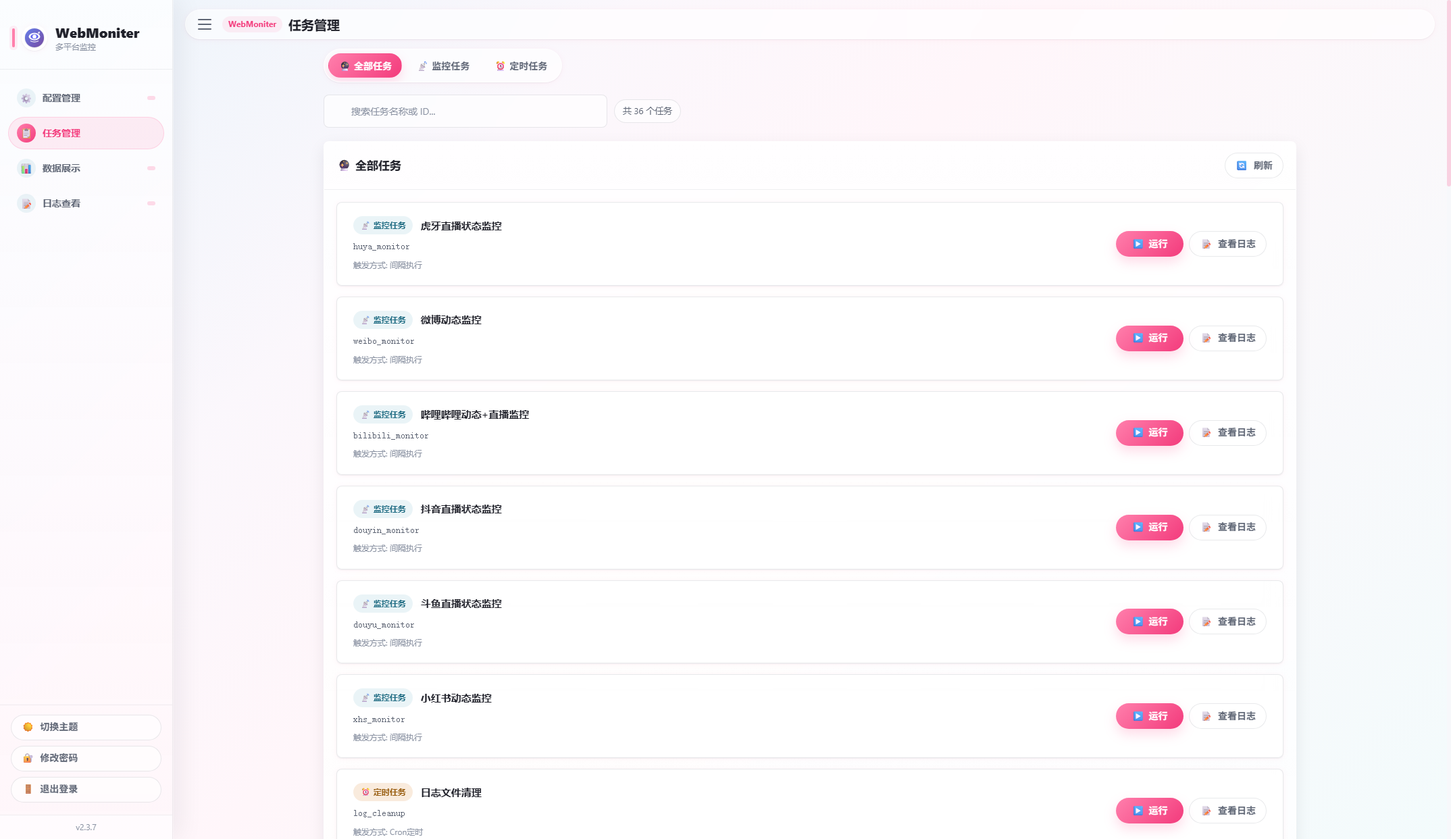
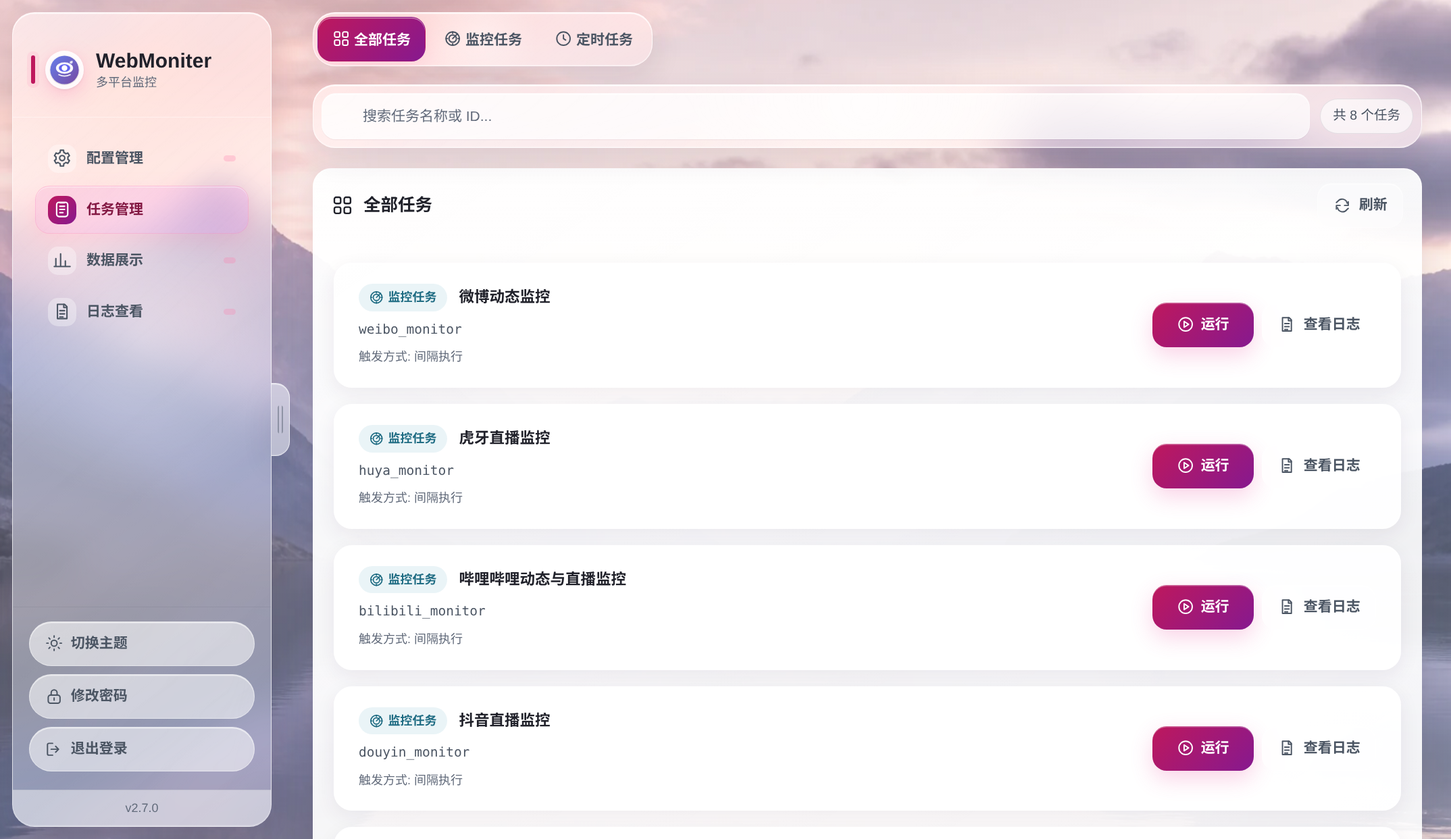
feat(docs): 更新文档与界面描述，增强用户体验
- 修改 README 和相关文档，详细描述液态玻璃风格的统一性与交互效果，确保在桌面端与手机端的一致性。
- 更新配置管理与密码修改页面的描述，增强可访问性与用户体验。
- 调整界面与交互设计，确保响应式布局与视觉效果的兼容性。
- 更新模板中的静态资源版本号，确保最新样式与脚本应用。

diff --git a/docs/ARCHITECTURE.md b/docs/ARCHITECTURE.md
@@ -313,38 +313,19 @@ class BaseMonitor(ABC):
 - `AsyncDatabase`：保持兼容接口的混合数据库门面
 
 **关键特性**：
-- **共享连接模式**：多个实例共享同一个数据库连接（提高性能）
-- **WAL模式**：启用Write-Ahead Logging，提高并发性能
-- **连接健康检查**：自动检测连接失效并重连
-- **重试机制**：数据库锁定时的指数退避重试
-- **SQL兼容**：支持MySQL风格的参数占位符转换
+- **混合后端**：MySQL 可作为权威主库，SQLite 始终作为本地镜像与断线回退
+- **共享连接模式**：多个实例复用 SQLite 连接与 MySQL 连接池
+- **SQLite 并发设置**：启用 WAL、`synchronous=NORMAL` 和 30 秒 busy timeout
+- **连接健康检查**：自动检测 MySQL 连接失效，回退后定期重连
+- **离线回放**：SQLite outbox 按表主键记录新增/更新、删除和整表清空事件
+- **SQL 兼容**：兼容 `%(name)s` / `:name` 参数，并将 `INSERT OR REPLACE` 转为 MySQL `REPLACE`
 
-**表结构**：
-```sql
--- 微博表
-CREATE TABLE weibo (
-    UID TEXT PRIMARY KEY,
-    用户名 TEXT NOT NULL,
-    认证信息 TEXT,
-    简介 TEXT,
-    粉丝数 TEXT,
-    微博数 TEXT,
-    文本 TEXT,
-    mid TEXT
-);
-
--- 虎牙表
-CREATE TABLE huya (
-    room TEXT PRIMARY KEY,
-    name TEXT NOT NULL,
-    is_live TEXT
-);
-```
+**同步表**：`weibo`、`huya`、`bilibili_dynamic`、`bilibili_live`、`douyin`、`douyu`、`xhs`、`task_run_history`。表名、主键、字段顺序和 MySQL DDL 统一登记在 `src/storage/mysql_backend.py` 的 `TABLE_SPECS`；完整字段见[数据库设计](#database-design)。`mysql_sync_outbox` 仅存在于 SQLite，不参与镜像。
 
 **连接管理**：
-- 全局单例连接（`_shared_connection`）
+- SQLite 使用共享连接（`_shared_connection`），MySQL 使用共享连接池（`_mysql_pool`）
 - 引用计数机制（`_connection_ref_count`）
-- 线程安全的连接管理（`_connection_lock`）
+- 异步锁保护连接切换、回退和同步状态
 
 ---
 
@@ -941,7 +922,8 @@ WebMoniter/
 │   │   ├── tracker.py      # task_run_history 读写 API 再导出
 │   │   └── enable_fields.py # 任务启用开关映射（registry + 青龙 compat 共用）
 │   ├── storage/            # 持久化
-│   │   ├── database.py     # AsyncDatabase（SQLite WAL）
+│   │   ├── database.py     # AsyncDatabase（MySQL/SQLite 门面、镜像与回退）
+│   │   ├── mysql_backend.py # MySQL 连接池、表规格与同步原语
 │   │   └── cookie_cache.py # Cookie 过期状态缓存
 │   ├── monitors/           # 平台监控（interval 触发）
 │   │   ├── base.py
@@ -986,7 +968,7 @@ WebMoniter/
 │   └── guides/             # config、tasks、web-ui、push-channels 等
 │
 ├── data/                   # 运行时数据（gitignore）
-│   ├── data.db             # SQLite（监控数据 + task_run_history）
+│   ├── data.db             # SQLite 镜像/回退（监控数据、运行记录、同步 outbox）
 │   ├── cookie_cache.json
 │   ├── auth.json           # Web 登录凭据
 │   ├── session_secret      # Web Session 密钥（持久化，避免重启掉线）
@@ -1022,7 +1004,7 @@ WebMoniter/
 ### 3. 单例模式
 
 **实现**：
-- 数据库连接：全局 `_shared_connection`
+- 数据库资源：全局共享 SQLite 连接和 MySQL 连接池
 - Cookie缓存：全局 `cookie_cache` 实例
 
 **优势**：
@@ -1100,8 +1082,19 @@ push_channel:
 
 - **MySQL（可选）**：配置完整且可连接时作为权威数据源
 - **SQLite**：始终保留本地镜像；MySQL 未配置或断连时接管读写
-- **WAL模式**：提高并发性能
-- **异步操作**：使用 `aiosqlite` 支持异步IO
+- **SQLite 并发策略**：WAL、`synchronous=NORMAL`、30 秒 busy timeout
+- **异步操作**：使用 `aiomysql` 连接池和共享 `aiosqlite` 连接
+
+启动时会创建缺失的 MySQL 表，并根据 `MYSQL_COLUMN_MIGRATIONS` 为旧表补齐历史版本新增字段。迁移先查询 `information_schema`，并容忍多实例竞争时 MySQL 1060“字段已存在”错误，因此 MySQL 账号需要建表、改表、查询元数据和数据读写权限。
+
+### 同步与故障回退
+
+1. MySQL 在线时先提交 MySQL，再把同一写入同步到 SQLite；镜像失败会标记降级，后续校准负责恢复一致性。
+2. MySQL 出现连接类错误时切换到 SQLite。离线写入与 `mysql_sync_outbox` 事件在同一个 SQLite 事务中提交，避免业务数据与待回放记录分离。
+3. 恢复连接时，若所有 MySQL 业务表均为空，则从 SQLite 初始化 MySQL；否则先按主键幂等回放 outbox，再以 MySQL 数据完整刷新 SQLite。
+4. 后台维护循环每 30 秒运行一次；MySQL 在线时每两个周期（约 60 秒）执行一次镜像校准，以接收其他客户端直接写入 MySQL 的变更。
+
+离线可回放写入仅支持 `TABLE_SPECS` 注册表。条件更新/删除必须在参数字典中包含该表主键（可以使用实际主键名或通用 `pk`）；整表清空仅识别不带条件的 `DELETE FROM <table>`。这使 outbox 可以明确记录为 `upsert`、`delete` 或 `clear`，而不依赖不可重放的任意 SQL。
 
 ### 表结构
 
@@ -1114,12 +1107,14 @@ push_channel:
 - `微博数`：微博数量
 - `文本`：最新微博内容
 - `mid`：微博ID
+- `图片`、`视频封面`：媒体资源信息
+- `转发微博`、`正文结构`、`标签`、`内容类型`：结构化微博内容
 
 **huya表**：
 - `room`：房间号（主键）
 - `name`：主播名称
 - `is_live`：直播状态（"1"=直播中，"0"=未开播）
-- `room_pic`、`avatar_url`：封面与头像 URL（旧库通过 ALTER TABLE 迁移追加，可选）
+- `room_pic`、`avatar_url`：封面与头像 URL（旧库在启动时通过增量迁移自动补齐）
 
 **bilibili_dynamic表**（B 站动态）：
 - `uid`：UP 主 UID（主键）
@@ -1147,19 +1142,24 @@ push_channel:
 - `profile_id`：用户 profile_id（主键）
 - `user_name`：用户名
 - `latest_note_title`：最近一条笔记标题
+- `note_id`：最近一条笔记 ID
 
 **task_run_history表**（定时任务运行记录）：
 - `job_id`：任务ID（主键）
 - `last_run_date`：最后运行日期（ISO格式，如 "2025-02-04"）
 
-> 该表在 `src/storage/database.py` 的 `_init_tables()` 中创建；读写 API 由同模块提供，`src/jobs/tracker.py` 对其再导出。用于实现"当天已运行则跳过"功能。`register_task` 包装层仅在 `run_func` 返回 `TASK_SUCCESS` 时写入记录；返回 `TASK_FAILED` 或抛出未捕获异常时不写入，允许当天重试。Web「立即运行」使用 `original_run_func`，不经过此检查。
+**mysql_sync_outbox表**（仅 SQLite）：
+- 保存事件编号、业务表名、主键值、操作类型、行快照和创建时间
+- 用于 MySQL 断线期间的写入回放，不属于 `TABLE_SPECS`，不会同步到 MySQL
+
+> `task_run_history` 由 SQLite `_init_tables()` 与 MySQL `TABLE_SPECS` 同时定义；读写 API 由 `src/storage/database.py` 提供，`src/jobs/tracker.py` 对其再导出。该表用于实现“当天已运行则跳过”。`register_task` 包装层仅在 `run_func` 返回 `TASK_SUCCESS` 时写入记录；返回 `TASK_FAILED` 或抛出未捕获异常时不写入，允许当天重试。Web「立即运行」使用 `original_run_func`，不经过此检查。
 
 ### 连接管理
 
-- **共享连接**：多个 `AsyncDatabase` 实例共享同一连接
-- **引用计数**：跟踪连接使用情况
-- **健康检查**：自动检测连接失效
-- **自动重连**：连接失效时自动重建
+- **共享资源**：多个 `AsyncDatabase` 实例共享 SQLite 连接和 MySQL 连接池
+- **引用计数**：跟踪数据库门面使用情况，最后一个实例关闭时释放资源
+- **健康状态**：记录当前权威后端、SQLite 镜像是否健康、待回放事件数量和最近错误
+- **自动重连**：回退期间由维护循环尝试恢复 MySQL，连接参数热更新后会重建后端
 
 ---
 

diff --git a/docs/SECONDARY_DEVELOPMENT.md b/docs/SECONDARY_DEVELOPMENT.md
@@ -439,7 +439,7 @@ MONITOR_MODULES: list[str] = [
 
 ## 五、监控任务需要数据库时该怎么办
 
-很多监控任务需要**持久化上一次状态**（例如上次是否在播、上次微博内容），以便本次轮询时对比、仅在变化时推送。本项目的做法是：**继承 BaseMonitor 即自带数据库与推送**，数据库使用项目内统一的 SQLite（`data/data.db`），由 `AsyncDatabase` 封装。
+很多监控任务需要**持久化上一次状态**（例如上次是否在播、上次微博内容），以便本次轮询时对比、仅在变化时推送。本项目的做法是：**继承 BaseMonitor 即自带数据库与推送**。`AsyncDatabase` 统一封装可选的 MySQL 权威主库，以及始终存在的 SQLite 本地镜像与故障回退；业务代码不应自行判断当前后端。
 
 ### 5.1 继承 BaseMonitor 即获得 self.db
 
@@ -460,18 +460,20 @@ MONITOR_MODULES: list[str] = [
 | `execute_insert(sql, params=None)` | 同 execute_update，语义上用于插入 | `bool` |
 | `is_table_empty(table_name)` | 判断表是否为空（可用于“首次运行”逻辑） | `bool` |
 
-- **SQL 占位符**：写 `%(name)s`、`%(room)s` 等，params 传字典如 `{"name": "xx", "room": "123"}`。模块内部会转换为 SQLite 的 `:name` 格式，无需改 SQL。
-- **连接**：默认使用全局共享连接（单进程内复用），重试与重连已在 `execute_*` 内处理。
+- **SQL 占位符**：可写 `%(name)s` 或 `:name`，params 传字典如 `{"name": "xx", "room": "123"}`。模块会按当前后端转换参数格式；`INSERT OR REPLACE` 在 MySQL 中转换为 `REPLACE`。
+- **跨库兼容**：优先使用项目现有的 `SELECT`、`INSERT`、`INSERT OR REPLACE`、按主键 `UPDATE` / `DELETE` 形式，避免只在单一数据库方言中存在的函数或语法。
+- **连接**：SQLite 连接与 MySQL 连接池均由模块共享，重试、回退、恢复和镜像同步由 `AsyncDatabase` 处理。
+- **离线写入约束**：条件更新/删除的 params 必须包含表的实际主键名（或通用 `pk`）；整表删除只使用精确的 `DELETE FROM table_name`。不要通过该接口执行无法按单行主键重放的任意批量条件写入。
 
-### 5.3 新监控需要新表时：在 database.py 中加表
+### 5.3 新监控需要新表时：同时登记 SQLite 与 MySQL
 
-当前所有表结构都在 `src/storage/database.py` 的 `_init_tables()` 里统一创建（`CREATE TABLE IF NOT EXISTS ...`）。  
-若你的监控需要**自己的表**（例如 `my_monitor`），在 **`src/storage/database.py`** 的 **`_init_tables()`** 中增加一段即可，与现有 `weibo`、`huya` 表并列，例如：
+若监控需要**自己的表**（例如 `my_monitor`），必须同时完成以下两处定义，否则 MySQL 模式下不会创建/同步该表，断线回退也会拒绝未注册表的写入：
+
+1. 在 `src/storage/database.py` 的 `_init_tables()` 中增加 SQLite `CREATE TABLE IF NOT EXISTS`。
+2. 在 `src/storage/mysql_backend.py` 的 `TABLE_SPECS` 中登记表名、主键、字段顺序和 MySQL DDL。
 
 ```python
-# 在 _init_tables(self, conn) 末尾、await conn.commit() 前增加：
-
-# 创建 my_monitor 表（示例）
+# database.py：SQLite 表
 await conn.execute(
     """
     CREATE TABLE IF NOT EXISTS my_monitor (
@@ -482,10 +484,28 @@ await conn.execute(
     )
     """
 )
-await conn.commit()
 ```
 
-表名、字段名按你的业务设计即可；主键建议能唯一标识一条监控对象（如房间号、用户 ID）。
+在 `mysql_backend.py` 的 `TABLE_SPECS` 字典中加入：
+
+```python
+# mysql_backend.py：与 SQLite 字段顺序保持一致
+"my_monitor": TableSpec(
+    "my_monitor",
+    "id",
+    ("id", "name", "status", "updated_at"),
+    """
+    CREATE TABLE IF NOT EXISTS `my_monitor` (
+        `id` VARCHAR(255) COLLATE utf8mb4_bin PRIMARY KEY,
+        `name` LONGTEXT,
+        `status` LONGTEXT,
+        `updated_at` LONGTEXT
+    ) CHARACTER SET utf8mb4 COLLATE utf8mb4_unicode_ci
+    """,
+),
+```
+
+主键必须能唯一标识一条监控对象（如房间号、用户 ID），且所有写入参数都应携带它。若给已有表增加字段，还要同时更新 SQLite 增量迁移、`TABLE_SPECS` 的字段/DDL 和 `MYSQL_COLUMN_MIGRATIONS`，保证历史 SQLite、历史 MySQL 与全新安装三种场景结构一致。多实例并发执行 MySQL 增量迁移时，重复字段错误会被安全忽略。
 
 ### 5.4 虎牙监控中的用法示例（对照代码）
 
@@ -524,9 +544,9 @@ await self.db.execute_insert(sql, data)
 ### 5.5 小结：监控 + 数据库的步骤
 
 1. **继承 BaseMonitor**，在 `initialize()` 里 `await super().initialize()` 后加载旧数据到内存（如 `load_old_info`）。
-2. 在 **`src/storage/database.py` 的 `_init_tables()`** 里为你的监控**增加 CREATE TABLE IF NOT EXISTS**（若需要新表）。
+2. 若需要新表，在 SQLite `_init_tables()` 与 MySQL `TABLE_SPECS` 中同时定义，并为已有表的新增字段补充两种后端的增量迁移。
 3. 在 `run()` 里：拉取当前数据 → 与旧数据对比 → 有变化则 `execute_update` / `execute_insert` 更新 DB，并调用 `self.push.send_news(...)`；无变化则只打日志。
-4. SQL 使用 **`%(key)s` + dict 参数**，通过 `self.db.execute_query` / `execute_update` / `execute_insert` 访问；连接与重试由 AsyncDatabase 统一处理。
+4. SQL 使用命名占位符 + dict 参数，通过 `self.db.execute_query` / `execute_update` / `execute_insert` 访问；写入参数必须包含注册主键，连接、回退与同步由 `AsyncDatabase` 统一处理。
 
 ---
 
@@ -581,7 +601,7 @@ await self.db.execute_insert(sql, data)
 - [ ] 在 `AppConfig` 中增加扁平字段，在 `src/settings/loader_specs.py` 中补充映射规格；可选：提供 `get_my_monitor_config()` 返回结构化配置。热重载通过 `model_dump()` 自动覆盖所有字段，无需手动维护比较列表。
 - [ ] 若监控使用 uid/room 类列表且需配置删除时同步清理 DB：在 `db_sync.sync_rules` 中增加对应规则（配置属性名 → 表名 + 主键列名）。
 - [ ] 新建 `src/monitors/xxx.py`，继承 `BaseMonitor` 实现 `run()`、`monitor_name`，以及 `run_xxx_monitor()`、`_get_xxx_trigger_kwargs(config)`（返回 `{"seconds": config.xxx_interval_seconds}`）。
-- [ ] **若监控需要数据库**：在 `src/storage/database.py` 的 `_init_tables()` 中增加 `CREATE TABLE IF NOT EXISTS your_table (...)`；在监控类 `initialize()` 里加载旧数据，在 `run()` 里用 `self.db.execute_query` / `execute_update` / `execute_insert` 读写（参见 **五、监控任务需要数据库时该怎么办**）。
+- [ ] **若监控需要数据库**：在 SQLite `_init_tables()` 与 MySQL `TABLE_SPECS` 中定义相同字段顺序和主键；已有表新增字段时同时补齐两种后端的增量迁移。写入参数必须带主键，并增加 SQLite、MySQL SQL 转换、回退/outbox 与恢复同步测试（参见 **五、监控任务需要数据库时该怎么办**）。
 - [ ] 在模块末尾调用 `register_monitor("job_id", run_xxx_monitor, _get_xxx_trigger_kwargs)`。
 - [ ] 在 `src/jobs/metadata.py` 的 `MONITOR_SPECS` 中添加 `TaskSpec`（包含模块路径、`job_id`、描述、配置节、enable/push 字段）。
 

diff --git a/docs/guides/web-ui.md b/docs/guides/web-ui.md
@@ -14,13 +14,27 @@
 | **数据展示** | 查看微博、虎牙、哔哩哔哩、抖音、斗鱼、小红书等平台的监控数据 |
 | **日志查看** | 实时查看当天总日志或各任务专属日志 |
 
-桌面端已去掉整条顶栏；侧边栏右缘有**收起/展开拉手**，点击即可隐藏或唤出导航。手机端用底部导航切换页面，最右侧「账户」打开主题/密码/退出等设置。界面为统一的 iOS 液态玻璃风格：按钮悬停时控件轻微放大，高光只在控件区域内跟随指针；微博数据卡悬停用上浮与光泽反馈（不缩放，避免圆角丢失）。
+桌面端已去掉整条顶栏；侧边栏右缘有**收起/展开拉手**，点击即可隐藏或唤出导航。手机端用底部导航切换页面，最右侧「账户」打开主题、密码和退出等设置。
+
+## 界面与交互设计
+
+- **材质层级**：侧边栏、底部导航、工具栏、弹窗和交互控件采用液态玻璃材质；数据卡片、表格与长文本等内容层保持较高不透明度，避免背景干扰阅读。
+- **指针反馈**：精确指针设备上的可点击控件会轻微上浮/缩放，高光限制在控件内部；触屏设备不依赖悬停完成任何操作。微博数据卡只上浮并显示光泽，不缩放，以保持圆角稳定。
+- **响应式布局**：桌面端使用可收起侧边栏，移动端使用包含安全区间距的底部导航；窄屏弹窗以底部面板显示。按钮、输入框和导航入口的主要触控目标不小于 44px。
+- **键盘操作**：标签页支持方向键、`Home`、`End` 切换；所有交互元素保留清晰的焦点样式。弹窗打开后焦点进入弹窗，支持 `Esc` 关闭，并在关闭后回到触发控件。
+- **系统偏好**：明暗主题可在账户菜单切换并保存在浏览器中；系统启用减少动效、减少透明度、高对比度或强制颜色时，界面会降低动画/模糊并增强边界。
+
+设计原则参考 [Apple Human Interface Guidelines：Materials](https://developer.apple.com/design/human-interface-guidelines/materials)，具体表现以当前浏览器与系统支持能力为准。
+
+| 移动端配置页 | 移动端账户面板 |
+|:-------------:|:---------------:|
+| ![移动端配置页](../assets/screenshots/移动端配置.png) | ![移动端账户面板](../assets/screenshots/移动端账户.png) |
 
 ---
 
 ## 配置管理
 
-左侧为导航/表格视图，可按模块（微博、虎牙、推送通道等）快速定位；右侧可切换为 **YAML 文本编辑** 直接修改原始配置。修改后点击保存，约 **5 秒内自动生效**，无需重启程序或容器。
+页面标签可在**表格视图**与 **YAML 文本编辑**之间切换；表格视图可按模块（微博、虎牙、推送通道等）快速定位，YAML 视图可直接修改原始配置。修改后点击保存，约 **5 秒内自动生效**，无需重启程序或容器。
 
 ![配置管理界面](../assets/screenshots/配置管理.png){ width="800" }
 
@@ -30,7 +44,7 @@
 
 ## 密码修改
 
-生产环境务必修改默认账号密码。在侧边栏底部或顶部进入「密码修改」页面，输入当前密码和新密码即可。
+生产环境务必修改默认账号密码。桌面端从侧边栏进入「密码修改」，移动端从底部导航的「账户」进入，输入当前密码和新密码即可。
 
 ![密码修改界面](../assets/screenshots/密码修改.png)
 

diff --git a/docs/index.md b/docs/index.md
@@ -8,16 +8,24 @@ Web 任务系统（WebMoniter）支持 **虎牙直播、微博、哔哩哔哩、
 
 ## 界面预览
 
-> 以下截图来自实际 Web 管理界面，示例账号与数据仅供演示。点击图片可查看大图。
+> 以下截图由当前前端模板、样式与脚本在 Chrome 中渲染，配置、账号、监控数据和日志均为脱敏演示内容。实际界面会随你的配置和数据不同而变化。
 
 ### 配置管理 & 密码修改
 
-左侧 **配置管理** 支持可视化编辑所有监控与签到配置，表格视图与 YAML 文本可切换；右侧 **密码修改** 用于修改 Web 登录密码，生产环境请务必修改默认账号。
+**配置管理**支持可视化编辑所有监控与签到配置，表格视图与 YAML 文本可切换；**密码修改**用于修改 Web 登录密码，生产环境请务必修改默认账号。
 
 | 配置管理 | 密码修改 |
 |:--------:|:--------:|
 | ![配置管理](assets/screenshots/配置管理.png) | ![密码修改](assets/screenshots/密码修改.png) |
 | 可视化编辑 config.yml，支持热重载 | 首次安装请尽快修改默认密码 |
+
+### 移动端布局
+
+窄屏使用底部导航；点击「账户」后，以底部面板显示主题、密码和退出操作。
+
+| 配置管理 | 账户与设置 |
+|:--------:|:----------:|
+| ![移动端配置管理](assets/screenshots/移动端配置.png) | ![移动端账户与设置](assets/screenshots/移动端账户.png) |
 
 ### 任务管理
 
@@ -94,7 +102,7 @@ Web 任务系统（WebMoniter）支持 **虎牙直播、微博、哔哩哔哩、
 | **定时签到** | 30 个定时任务（微博 Cookie 刷新、贴吧、微博超话、iKuuu、雨云、Freenom 等，清单由 `metadata.TASK_SPECS` 生成） |
 | **多渠道推送** | 企业微信、钉钉、飞书、Telegram、Bark、WxPusher、邮件等 18 种 type |
 | **配置热重载** | 修改 `config.yml` 约 5 秒内生效，无需重启 |
-| **Web 管理** | 配置编辑、任务管理、数据查看、日志查看 |
+| **Web 管理** | 响应式液态玻璃界面，支持配置编辑、任务管理、数据查看、日志查看 |
 | **RESTful API** | 便于集成与自动化操作 |
 
 ---
@@ -104,7 +112,7 @@ Web 任务系统（WebMoniter）支持 **虎牙直播、微博、哔哩哔哩、
 - **运行环境**: Python 3.11
 - **调度**: APScheduler
 - **Web**: FastAPI + Uvicorn
-- **数据**: SQLite (aiosqlite)
+- **数据**: MySQL（可选权威主库）+ SQLite（本地镜像与故障回退）
 - **配置**: YAML，支持热重载
 
 ---

diff --git a/docs/README.es-ES.md b/docs/README.es-ES.md
@@ -44,7 +44,7 @@ WebMoniter es un sistema de tareas basado en Python, FastAPI y APScheduler, dise
 - Monitoreo de plataformas: Huya, Weibo, Bilibili, Douyin, Douyu, Xiaohongshu.
 - Tareas programadas: **30 tareas** de registro (check-in) y recordatorios, incluyendo actualización de cookies de Weibo, iKuuu, Tieba, Super Topic de Weibo, Rainyun, Aliyun Drive, Freenom, notificaciones meteorológicas, etc. (ver `src/jobs/registry.py`).
 - Notificaciones multicanal: **18 tipos** de canales como WeChat Work, DingTalk, Feishu, Telegram, Bark, WxPusher, Email, etc.
-- Gestión Web: Edición de configuración, gestión de tareas, visualización de datos, visualización de logs y gestión de contraseñas.
+- Gestión Web responsive para configuración, tareas, datos, logs y contraseñas. La navegación, barras de herramientas, diálogos y controles usan un estilo Liquid Glass, con barra lateral en escritorio, navegación inferior en móvil y alternativas accesibles para movimiento y transparencia.
 
 La configuración admite recarga en caliente; los cambios en `config.yml` suelen surtir efecto en aproximadamente 5 segundos.
 
@@ -267,7 +267,7 @@ Para agregar nuevos monitoreos o tareas programadas, consulte la [Guía de Desar
 | `src/core/` | Tiempo de ejecución (`runtime.py` watchdog de salida 12s), Rutas (`paths.py`), Versión, Herramientas HTTP |
 | `src/settings/` | Modelos de configuración (`config.py`), Mapeo YAML (`loader_specs.py`), Recarga dinámica (`watcher.py`), Sincronización DB (`db_sync.py`) |
 | `src/jobs/` | Metadatos de tareas (`metadata.py`), Programación (`scheduler.py`), Registro (`registry.py`), Mapeo de habilitación (`enable_fields.py`), Resultados de tarea (`task_outcome.py`), Ciclo de vida (`lifecycle.py`), Logs (`log_manager.py`), Registro de ejecución (`tracker.py`) |
-| `src/storage/` | SQLite (`database.py`), Caché de Cookies (`cookie_cache.py`) |
+| `src/storage/` | MySQL primario opcional, espejo/respaldo SQLite (`database.py`, `mysql_backend.py`) y caché de Cookies (`cookie_cache.py`) |
 | `src/monitors/` | Monitoreo de 6 plataformas (disparado por intervalo, lista generada por `metadata.MONITOR_SPECS`) |
 | `src/tasks/` | 30 tareas de registro/programadas (disparado por Cron, incluye subpaquete `rainyun/`, lista generada por `metadata.TASK_SPECS`) |
 | `src/push_channel/` | 18 tipos de notificaciones (WeChat Work, DingTalk, Telegram, etc., incluye `demo`, `qlapi`) |

diff --git a/docs/guides/config.md b/docs/guides/config.md
@@ -96,9 +96,11 @@ mysql:
   pool_max_size: 5
 ```
 
-数据库和账号需提前创建，并具备建表、改表和数据读写权限。首次连接空 MySQL 时会导入现有 SQLite 数据；若 MySQL 已有业务数据，则以 MySQL 为准刷新 SQLite。密码直接保存在被 Git 忽略的 `config.yml`，请限制文件权限且不要提交该文件。
+数据库和账号需提前创建，并具备读取 `information_schema`、建表、改表和数据读写权限。启动时会创建缺失表，并为旧版 MySQL 表补齐历史版本新增的微博、虎牙和小红书字段；多实例同时启动遇到“字段已存在”时可安全继续。首次连接的 MySQL 若所有业务表均为空，会导入现有 SQLite 数据；只要任一业务表已有数据，则以 MySQL 为准刷新 SQLite。密码直接保存在被 Git 忽略的 `config.yml`，请限制文件权限且不要提交该文件。
 
-Web 配置页的「系统设置」支持测试未保存的连接参数，并显示当前权威后端、SQLite 健康度和待回放数量。应用自身写入会即时双写，MySQL 在线时还会每 60 秒校准一次 SQLite，以同步其他客户端直接写入 MySQL 的变更。
+MySQL 在线时，应用先提交 MySQL，再同步本地 SQLite；若镜像写入失败，状态会标记为降级并由后续校准修复。连接类错误会触发 SQLite 回退：离线写入在 SQLite 事务中同时记录到 `mysql_sync_outbox`，恢复连接后按主键幂等回放新增/更新、删除或整表清空事件，再用 MySQL 权威数据刷新镜像。该 outbox 是 SQLite 内部同步表，不会镜像到 MySQL。
+
+SQLite 连接使用 WAL、`synchronous=NORMAL` 和 30 秒 busy timeout。后台维护循环每 30 秒检查连接；MySQL 在线时每两个周期（约 60 秒）校准一次 SQLite，以同步其他客户端直接写入 MySQL 的变更。Web 配置页的「系统设置」支持测试尚未保存的连接参数，并显示当前权威后端、SQLite 健康度和待回放数量。
 
 ## 任务级推送通道选择
 

diff --git a/docs/assets/screenshots/README.md b/docs/assets/screenshots/README.md
@@ -1,5 +1,10 @@
 # 截图目录
 
-构建文档站时，`.github/workflows/docs.yml` 会将 `src/webUI/static/*.png`、`src/webUI/static/*.jpg` 同步到此目录。
+此目录是项目文档截图的**唯一来源**。更新界面截图时直接替换这里的同名文件；不要在 `src/webUI/static/` 或其他目录保存副本。GitHub Pages 构建会直接读取本目录，无需额外同步步骤。
 
-若本地预览时图片缺失，可将截图放入 `src/webUI/static/` 目录（如 `配置管理.png` 等），或直接放入本目录后执行 `uv run mkdocs serve` 预览。
+本地可执行 `uv run mkdocs serve -f docs/mkdocs.yml` 预览更新结果。
+
+当前文档截图使用真实前端模板、CSS 和 JavaScript，通过脱敏演示接口渲染，禁止使用包含 Cookie、Token、数据库密码或真实账号的数据截图。
+
+- 桌面端：`配置管理.png`、`密码修改.png`、`任务管理.png`、`数据展示.png`、`日志查看.png`，尺寸为 2148 × 1242（CSS 视口 1432 × 828，DPR 1.5）。
+- 移动端：`移动端配置.png`、`移动端账户.png`，尺寸为 780 × 1688（CSS 视口 390 × 844，DPR 2）。

diff --git a/docs/README.en-US.md b/docs/README.en-US.md
@@ -40,7 +40,7 @@ WebMoniter is a task system built with Python, FastAPI, and APScheduler. It prov
 - Platform monitoring for Huya, Weibo, Bilibili, Douyin, Douyu, and Xiaohongshu.
 - **30 scheduled check-in and reminder tasks**, including Weibo cookie refresh, iKuuu, Tieba, Weibo Super Topic, Rainyun, Aliyun Drive, Freenom, and weather notifications (see `src/jobs/registry.py`).
 - **18 notification channel types**, including WeCom, DingTalk, Feishu, Telegram, Bark, WxPusher, and email.
-- Web-based configuration editing, task management, data views, logs, and password management.
+- A responsive Web UI for configuration, tasks, data, logs, and passwords. Its navigation, toolbars, dialogs, and controls use a Liquid Glass style, with desktop side navigation, mobile bottom navigation, keyboard interaction, and accessible motion/transparency fallbacks.
 
 Configuration supports hot reload. Changes to `config.yml` usually take effect within about five seconds.
 
